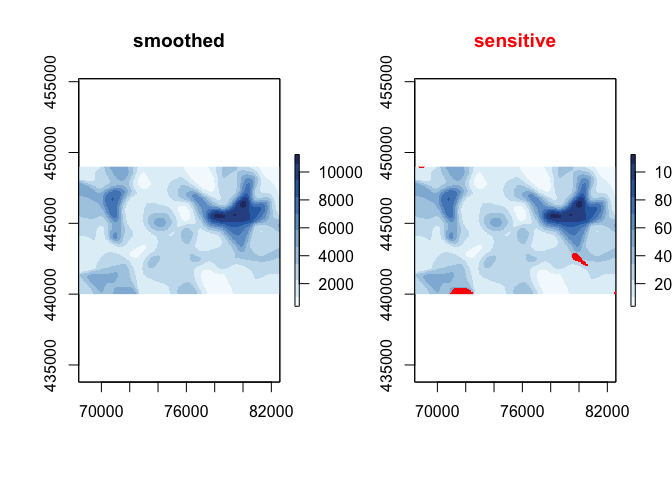
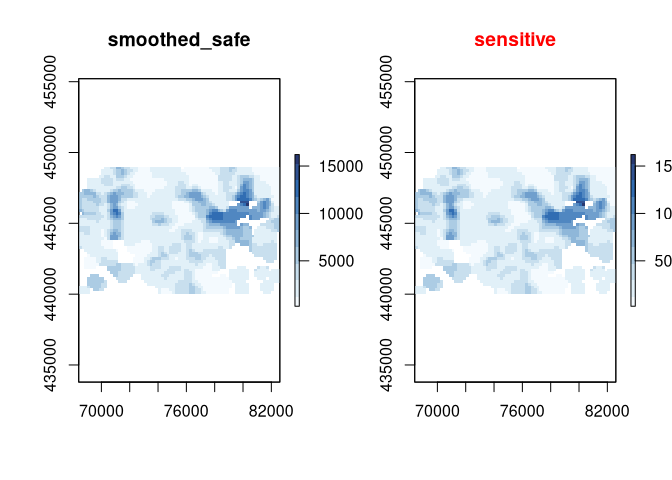
fixed protected_smooth

diff --git a/README.md b/README.md
@@ -7,7 +7,6 @@ status](https://www.r-pkg.org/badges/version/sdcSpatial)](https://cran.r-project
 status](https://github.com/edwindj/sdcSpatial/workflows/R-CMD-check/badge.svg)](https://github.com/edwindj/sdcSpatial/actions)
 [![](https://cranlogs.r-pkg.org/badges/sdcSpatial)](https://cran.r-project.org/package=sdcSpatial)
 [![status](https://tinyverse.netlify.com/badge/sdcSpatial)](https://CRAN.R-project.org/package=sdcSpatial)
-
 [![Mentioned in Awesome Official
 Statistics](https://awesome.re/mentioned-badge.svg)](http://www.awesomeofficialstatistics.org)
 
@@ -94,23 +93,19 @@ plot(smoothed)
 
 ``` r
 # let's smooth to reduce the sensitivity, with higher resolution
-smoothed <- protect_smooth(production, bw = 400, fact=4, keep_resolution=FALSE)
-plot(smoothed)
-```
+# smoothed <- protect_smooth(production, bw = 400, fact=4, keep_resolution=FALSE)
+# plot(smoothed)
 
-<img src="man/figures/README-example-4.png" width="100%" />
-
-``` r
 # what is the sensitivy fraction?
 sensitivity_score(smoothed)
-#> [1] 0.007962441
+#> [1] 0.09800066
 
 # let's remove the sensitive data.
 smoothed_safe <- remove_sensitive(smoothed, min_count = 3)
 plot(smoothed_safe)
 ```
 
-<img src="man/figures/README-example-5.png" width="100%" />
+<img src="man/figures/README-example-4.png" width="100%" />
 
 ``` r
 # let's communicate!
@@ -121,7 +116,7 @@ production_total <- sum(smoothed_safe)
 raster::filledContour(production_mean, nlevels = 6, main = "Mean production")
 ```
 
-<img src="man/figures/README-example-6.png" width="100%" />
+<img src="man/figures/README-example-5.png" width="100%" />
 
 ``` r
 
@@ -135,4 +130,4 @@ raster::filledContour(production_total, nlevels = 11
              , main="Total production")
 ```
 
-<img src="man/figures/README-example-7.png" width="100%" />
+<img src="man/figures/README-example-6.png" width="100%" />
